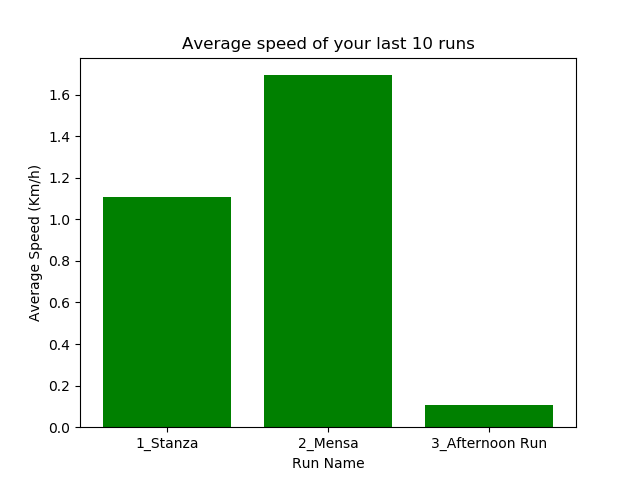
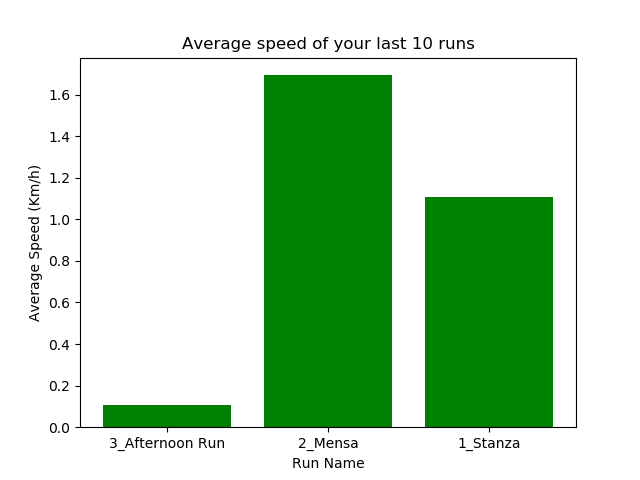
Added reverse order for runs' order

diff --git a/monolith/views/statistics.py b/monolith/views/statistics.py
@@ -1,6 +1,6 @@
-from flask import Blueprint, render_template, request
+from flask import Blueprint, render_template, request, g
 from monolith.database import db, Run
-from monolith.auth import current_user, login_required, nocache
+from monolith.auth import current_user, login_required
 from enum import Enum
 
 
@@ -24,7 +24,6 @@ PLOTS_FORMAT = ".png"
 
 @statistics.route('/statistics', methods=['GET'])
 @login_required
-@nocache
 def stats():
     #plotted on the x axis
     starting_dates = []
@@ -54,25 +53,25 @@ def stats():
                 elapsed_times.append(run.elapsed_time)
                 run_names.append(run.name)
                 run_ids.append(run.id)
-
-
-                run_names_concatenated = concatenate_run_name_id(run_names, run_ids)
-
-
-                if(run.average_heartrate != None):
+                if (run.average_heartrate != None):
                     average_heartrates.append(run.average_heartrate)
-                #saving into lists completed, now let's get plotting!
-                #need to save plots on disk before actually showing them in the page!
 
-                #now let's just reverse the order before plotting so as to have the most recent on the right-hand side
-                #reverse acts in place, no need to assign to a new variable!
+            #saving into lists completed, now let's get plotting!
+            #need to save plots on disk before actually showing them in the page!
+            #now let's just reverse the order so as to have the most recent on the right-hand side
+            #reverse acts in place, no need to assign to a new variable!
 
-                x_label = "Run Name"
-                distance_plot_filename = create_plot(runner_id, run_names_concatenated, distances, x_label, "Distance (m)", "Distance of your last 10 runs", 'distance', 'blue', 1)
-                avg_speed_plot_filename = create_plot(runner_id, run_names_concatenated, average_speeds, x_label, "Average Speed (Km/h)", "Average speed of your last 10 runs", 'average_speed', 'g', 2)
-                avg_heartrate_plot_filename = create_plot(runner_id, run_names_concatenated, average_heartrates, x_label, "Heartrate (hrpm)", "Average Heartrate of your last 10 runs", 'average_heartrate', 'orange', 2)
-                elapsed_times_plot_filename = create_plot(runner_id, run_names_concatenated, elapsed_times, x_label, "Elapsed time (s)", "Duration time of your last 10 runs", 'elapsed_time', 'red', 2)
-                elevation_gain_filename = create_plot(runner_id, run_names_concatenated, total_elevation_gains, x_label, "Total Elevation Gain (m)", "Total elevation gain of your last 10 runs", 'elevation_gain', 'brown', 2)
+            run_names_concatenated = concatenate_run_name_id(run_names, run_ids)
+            run_names_concatenated.reverse()
+
+            x_label = "Run Name"
+            distance_plot_filename = create_plot(runner_id, run_names_concatenated, distances, x_label, "Distance (m)", "Distance of your last 10 runs", 'distance', 'blue', 1)
+            avg_speed_plot_filename = create_plot(runner_id, run_names_concatenated, average_speeds, x_label, "Average Speed (Km/h)", "Average speed of your last 10 runs", 'average_speed', 'g', 2)
+            avg_heartrate_plot_filename = create_plot(runner_id, run_names_concatenated, average_heartrates, x_label, "Heartrate (hrpm)", "Average Heartrate of your last 10 runs", 'average_heartrate', 'orange', 2)
+            elapsed_times_plot_filename = create_plot(runner_id, run_names_concatenated, elapsed_times, x_label, "Elapsed time (s)", "Duration time of your last 10 runs", 'elapsed_time', 'red', 2)
+            elevation_gain_filename = create_plot(runner_id, run_names_concatenated, total_elevation_gains, x_label, "Total Elevation Gain (m)", "Total elevation gain of your last 10 runs", 'elevation_gain', 'brown', 2)
+
+
 
         else:
             #user doesn't have any runs or has not connected the Strava account
@@ -93,12 +92,16 @@ def stats():
 
 
 
+
+
 #plot_type = 1 --> line plot
 #          = 2 --> bar plot
 def create_plot(runner_id, x_values, y_values, xlabel, ylabel, title, filename, color, plot_type):
     filename_output = None
 
     if  len(y_values) > 0:
+        #reverse here as well!
+        y_values.reverse()
         if plot_type == 1:
             plt.plot(x_values, y_values, color=color)
         elif plot_type == 2:
@@ -121,5 +124,17 @@ def concatenate_run_name_id(run_names, run_ids):
         run_names_concatenated.append(str(run_id) + "_" + run_name)
     return run_names_concatenated
 
+
+@stats.after_request
+def add_header(r):
+    """
+    Add headers to both force latest IE rendering engine or Chrome Frame,
+    and also to cache the rendered page for 10 minutes.
+    """
+    r.headers["Cache-Control"] = "no-cache, no-store, must-revalidate"
+    r.headers["Pragma"] = "no-cache"
+    r.headers["Expires"] = "0"
+    r.headers['Cache-Control'] = 'public, max-age=0'
+    return r
 
 

diff --git a/monolith/auth.py b/monolith/auth.py
@@ -3,10 +3,6 @@ from flask_login import current_user, LoginManager
 from monolith.database import User, db
 from flask import redirect
 from stravalib import exc
-#packages below are used for caching purposes
-from flask import make_response
-from functools import wraps, update_wrapper
-from datetime import datetime
 
 login_manager = LoginManager()
 
@@ -36,19 +32,6 @@ def login_required(func):
             return func(*args, **kw)
         return redirect('/')
     return _login_required
-
-#decorator used to avoid caching a page content (i.e: as in the case of plots for statistics)
-def nocache(view):
-    @wraps(view)
-    def no_cache(*args, **kwargs):
-        response = make_response(view(*args, **kwargs))
-        response.headers['Last-Modified'] = datetime.now()
-        response.headers['Cache-Control'] = 'no-store, no-cache, must-revalidate, post-check=0, pre-check=0, max-age=0'
-        response.headers['Pragma'] = 'no-cache'
-        response.headers['Expires'] = '-1'
-        return response
-
-    return update_wrapper(no_cache, view)
 
 
 def strava_token_required(func):

diff --git a/monolith/app.py b/monolith/app.py
@@ -35,6 +35,9 @@ def create_app():
     return app
 
 
+
+
+
 if __name__ == '__main__':
     app = create_app()
     app.run()
